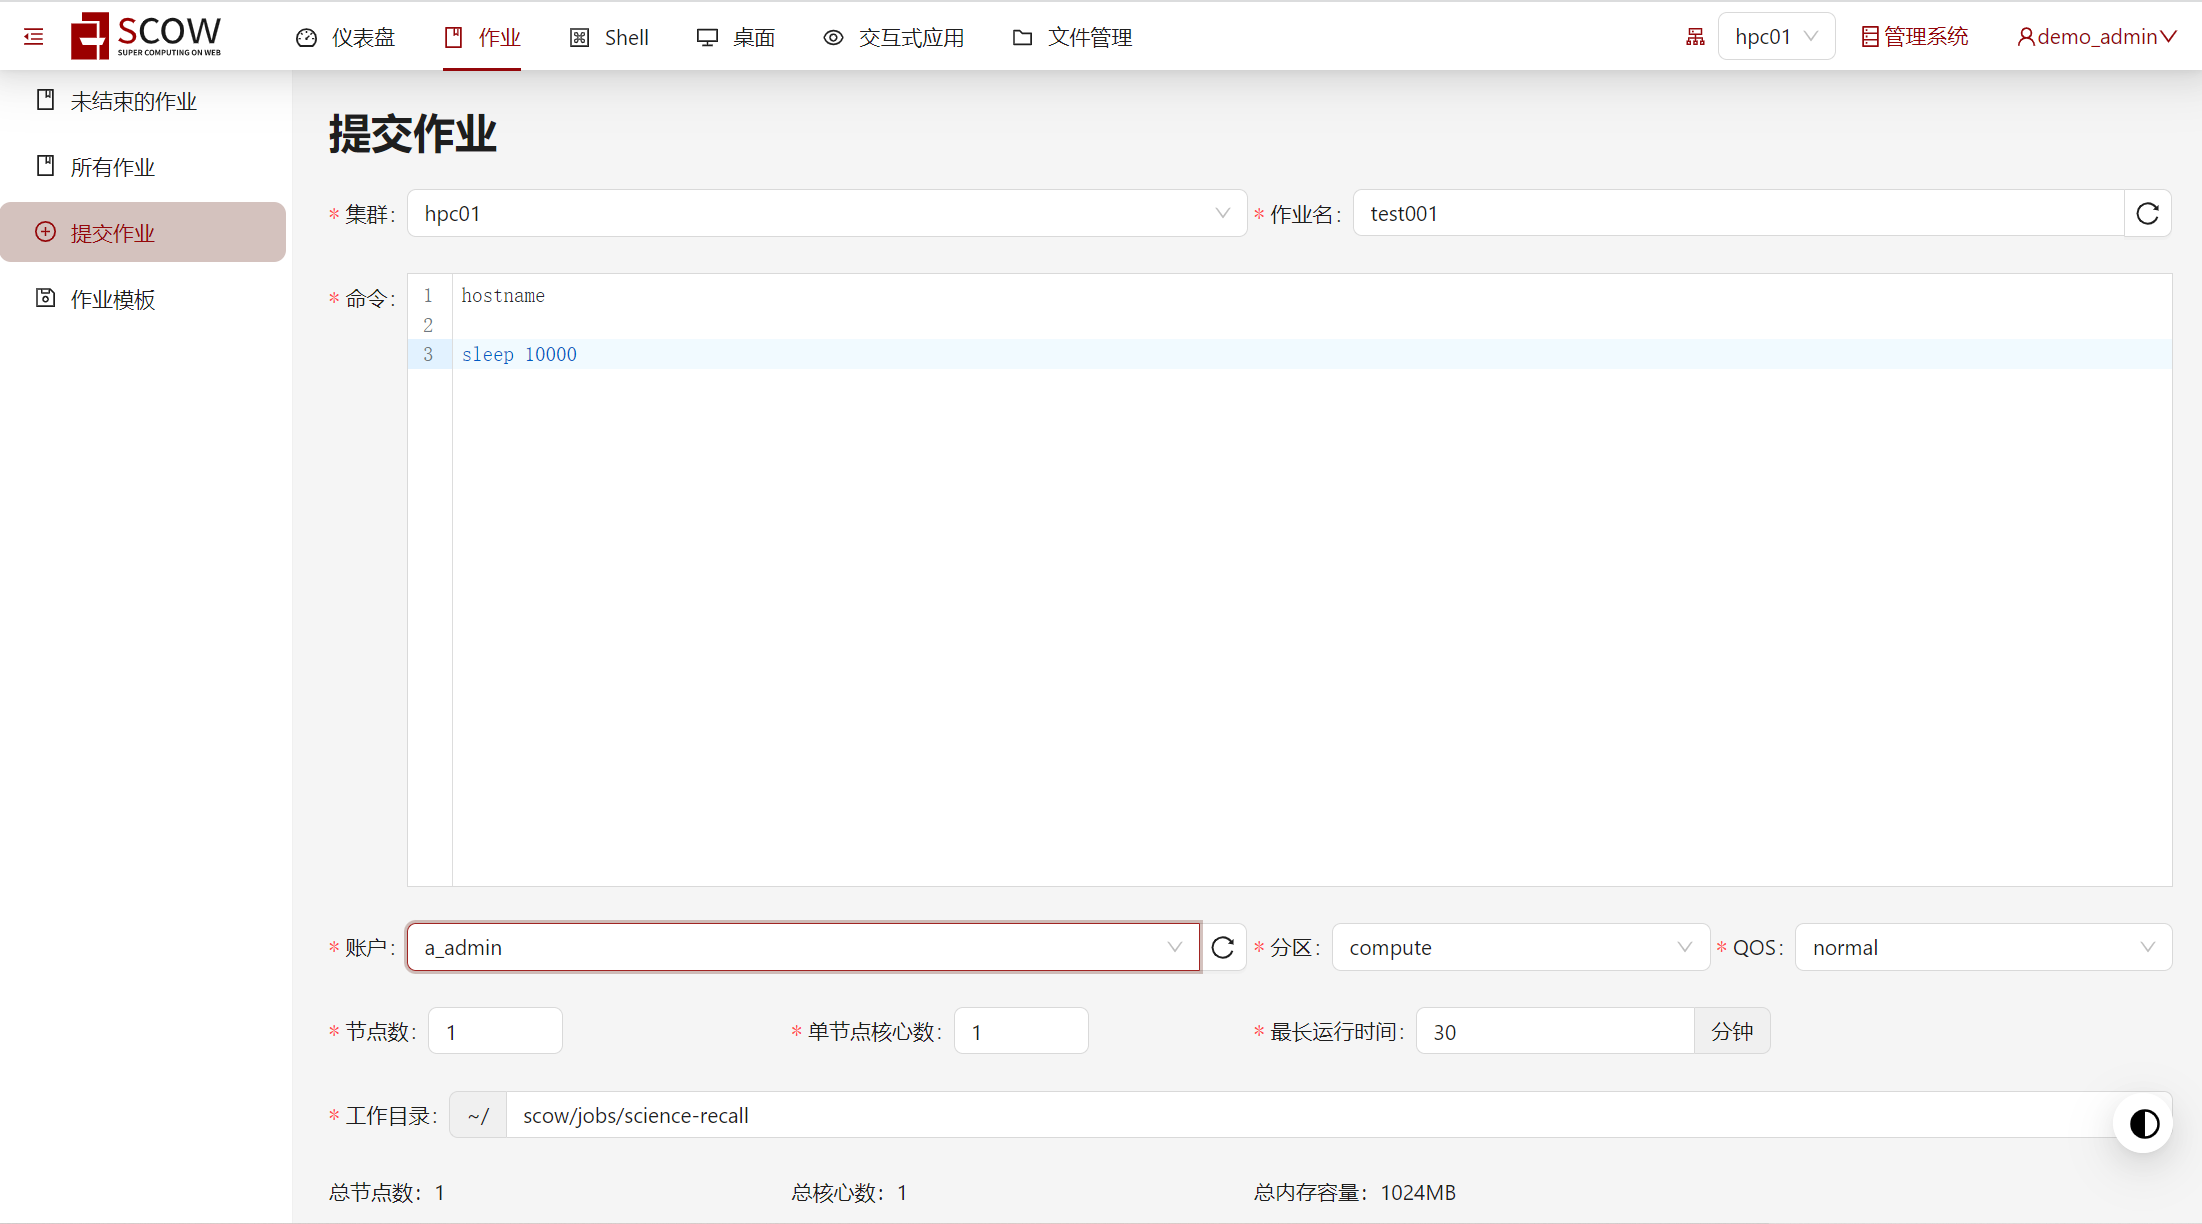
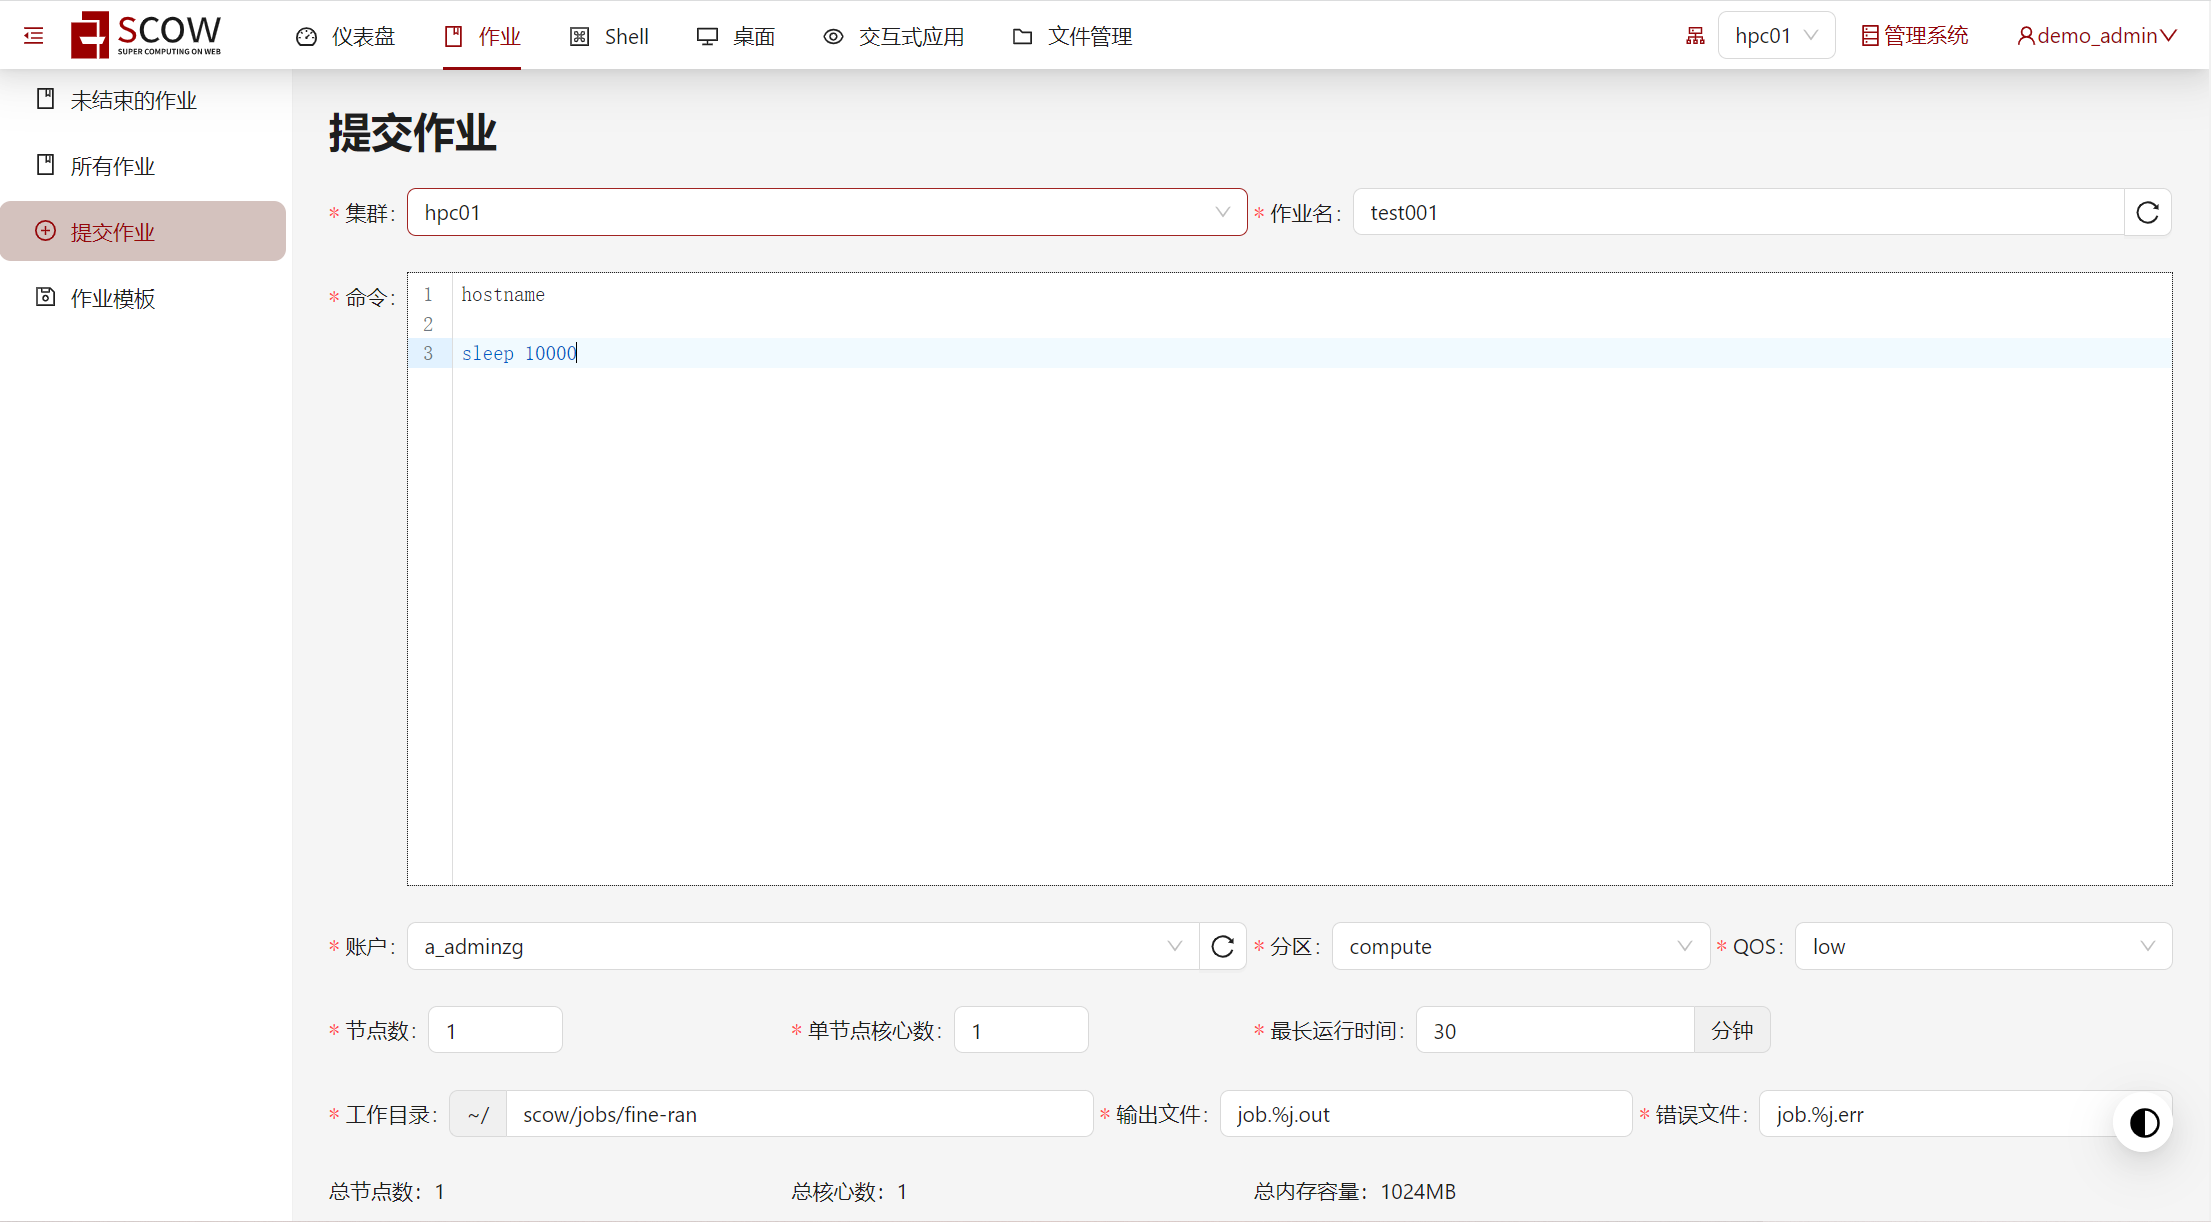
修改文档

diff --git a/docs/docs/guide/index.md b/docs/docs/guide/index.md
@@ -42,6 +42,8 @@ title: SCOW使用教程
 | 单节点GPU卡数 | 每个节点上申请的GPU卡数                                                  | 仅GPU分区展示 |
 | 最长运行时间  | 本次作业的最长计算时间                                                   |    -    |
 | 工作目录      | 指定作业相关文件的存储路径                                               |    -    |
+| 输出文件      | 指定作业输出的文件名                                                     |    -    |
+| 错误文件      | 指定作业输出错误的文件名                                                 |    -    |
 | 总节点数      | 申请的节点数                                                            | 总节点数=节点数   |
 | 总核心数      | 申请的总核心数                                                          |   总核心数（CPU分区）=节点数 \* 单节点核心数；总核心数（GPU分区）=节点数 \* 单节点总核心数 \*（单节点GPU卡数/单节点总GPU卡数）    |
 | 总卡数        | 申请的GPU卡总数                                                         |  仅GPU分区展示；总卡数 = 节点数 \* 单节点GPU卡数  |

diff --git a/docs/docs/info/portal/job.md b/docs/docs/info/portal/job.md
@@ -44,6 +44,8 @@ title: 作业
 | 单节点GPU卡数 | 每个节点上申请的GPU卡数                                                  | 仅GPU分区展示 |
 | 最长运行时间  | 本次作业的最长计算时间                                                   |    -    |
 | 工作目录      | 指定作业相关文件的存储路径                                               |    -    |
+| 输出文件      | 指定作业输出的文件名                                                     |    -    |
+| 错误文件      | 指定作业输出错误的文件名                                                 |    -    |
 | 总节点数      | 申请的节点数                                                            | 总节点数=节点数   |
 | 总核心数      | 申请的总核心数                                                          |   总核心数（CPU分区）=节点数 \* 单节点核心数；总核心数（GPU分区）=节点数 \* 单节点总核心数 \*（单节点GPU卡数/单节点总GPU卡数）    |
 | 总卡数        | 申请的GPU卡总数                                                         |  仅GPU分区展示；总卡数 = 节点数 \* 单节点GPU卡数  |
